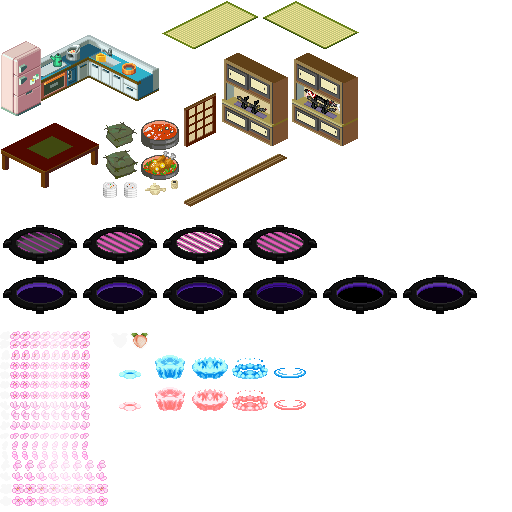
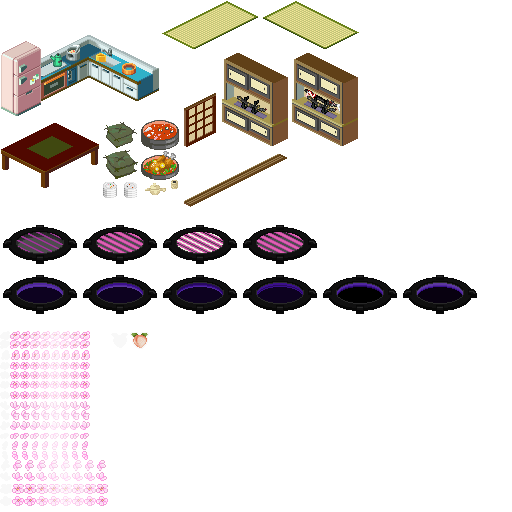
Moved effect sprites to barrier sheet

Changed region(s): [[0.2812, 0.6875, 0.5938, 0.8125], [0.2188, 0.7188, 0.2812, 0.75], [0.25, 0.7812, 0.2812, 0.8125]]

diff --git a/ShanghaiEXE/Effect/BadWater.cs b/ShanghaiEXE/Effect/BadWater.cs
@@ -13,8 +13,8 @@ namespace NSEffect
         private static readonly IDictionary<TYPE, Tuple<string, Rectangle>> Types = new Dictionary<TYPE, Tuple<string, Rectangle>>
         {
             { TYPE.Poison, Tuple.Create("kikuriAttack", new Rectangle(0, 360, 40, 32)) },
-            { TYPE.Blue, Tuple.Create("body26", new Rectangle(110, 350, 40, 32)) },
-            { TYPE.Pink, Tuple.Create("body26", new Rectangle(110, 382, 40, 32)) },
+            { TYPE.Blue, Tuple.Create("heavenbarrier", new Rectangle(0, 192, 40, 32)) },
+            { TYPE.Pink, Tuple.Create("heavenbarrier", new Rectangle(0, 160, 40, 32)) },
         };
 
         private readonly TYPE type;
